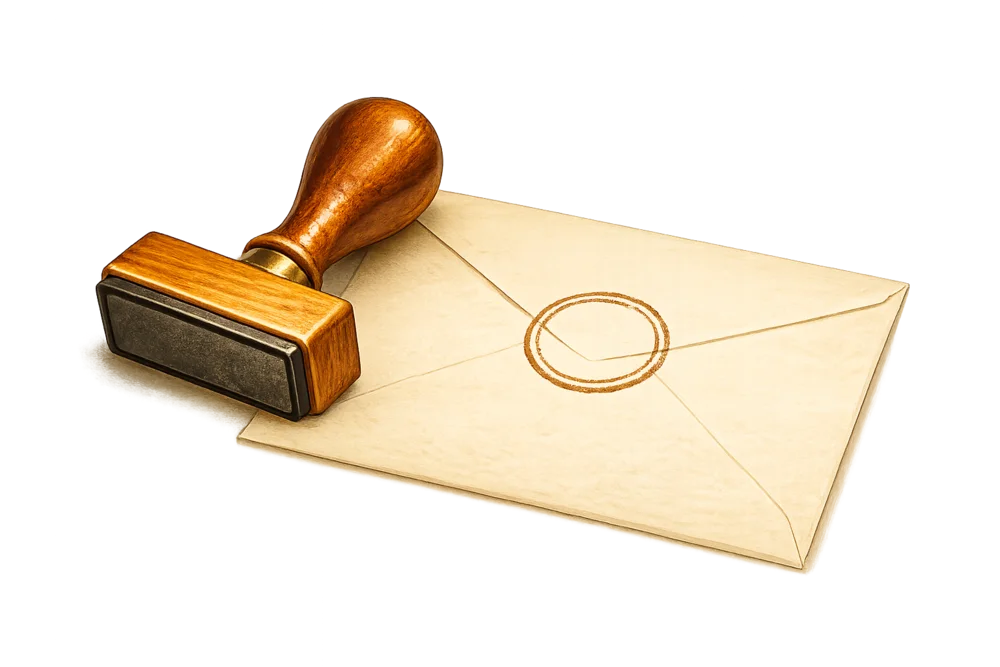
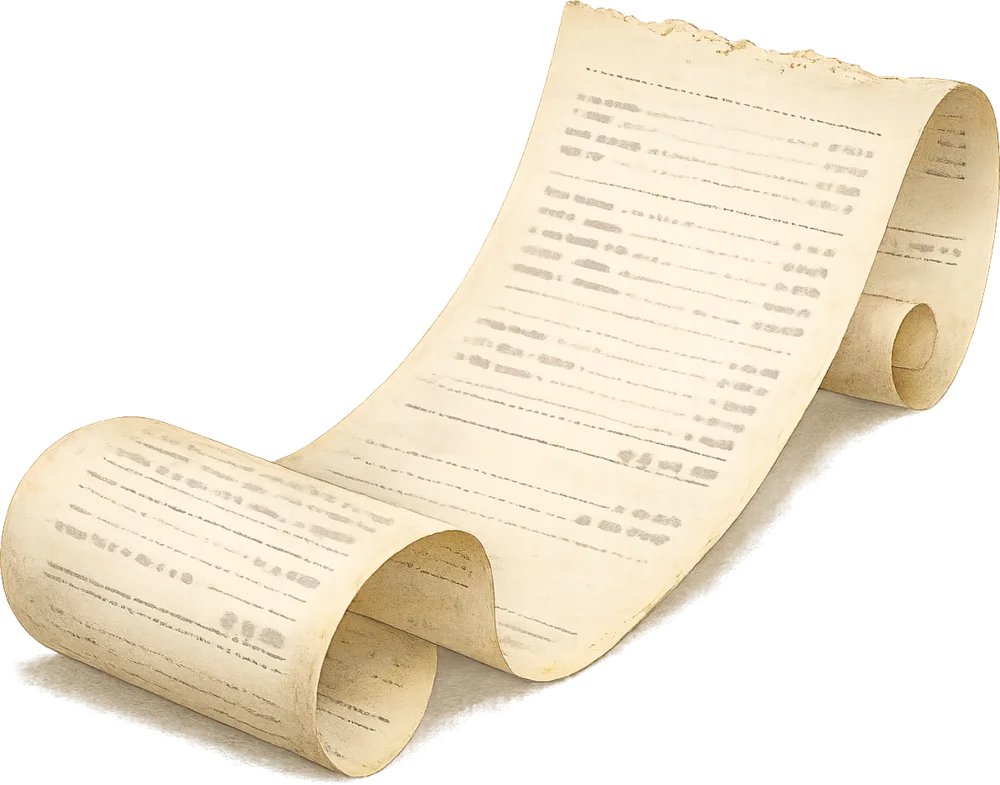
wip

diff --git a/v2.html b/v2.html
@@ -747,8 +747,8 @@
               scroll to the bottom, tap unsubscribe and then Safari takes over
               and shows a sign-in page. After signing in, you wonder whether to
               uncheck "marketing" or "promotional" — so you uncheck everything
-              and pat yourself on the back for not forgetting to tap that save
-              button. Then you see it.
+              and pat yourself on the back for not missing that save button.
+              Then you see it.
             </p>
             <p>
               <em>Please allow 48 hours for your changes to take effect.</em>
@@ -769,14 +769,14 @@
             <p class="label">Read receipts</p>
             <h3>Know what was read.</h3>
             <p>
-              Silence is ambiguous. Get notified when your email is read — so
+              Silence is ambiguous. Get notified when your emails are read so
               you know whether to follow up or move on.
             </p>
           </div>
           <div class="feature-art">
             <img
               src="feature-receipts.webp"
-              alt="A rubber stamp beside a cream envelope bearing a single circular impression"
+              alt="A long curling paper receipt with rows of faint printed marks"
               loading="lazy"
             />
           </div>
@@ -808,13 +808,13 @@
         <article class="feature reveal">
           <div class="feature-body">
             <p class="label">Set aside</p>
-            <h3>Protect your to-do list.</h3>
+            <h3>Keep what needs doing.</h3>
             <p>
               Reservations. Plane tickets. That newsletter you'll read on
               Friday's commute home. None of them need doing but you'll want
               them later.
             </p>
-            <p>Set them aside — out of your inbox, not gone.</p>
+            <p>Set them aside — out of your inbox, not out of reach.</p>
           </div>
           <div class="feature-art">
             <img
